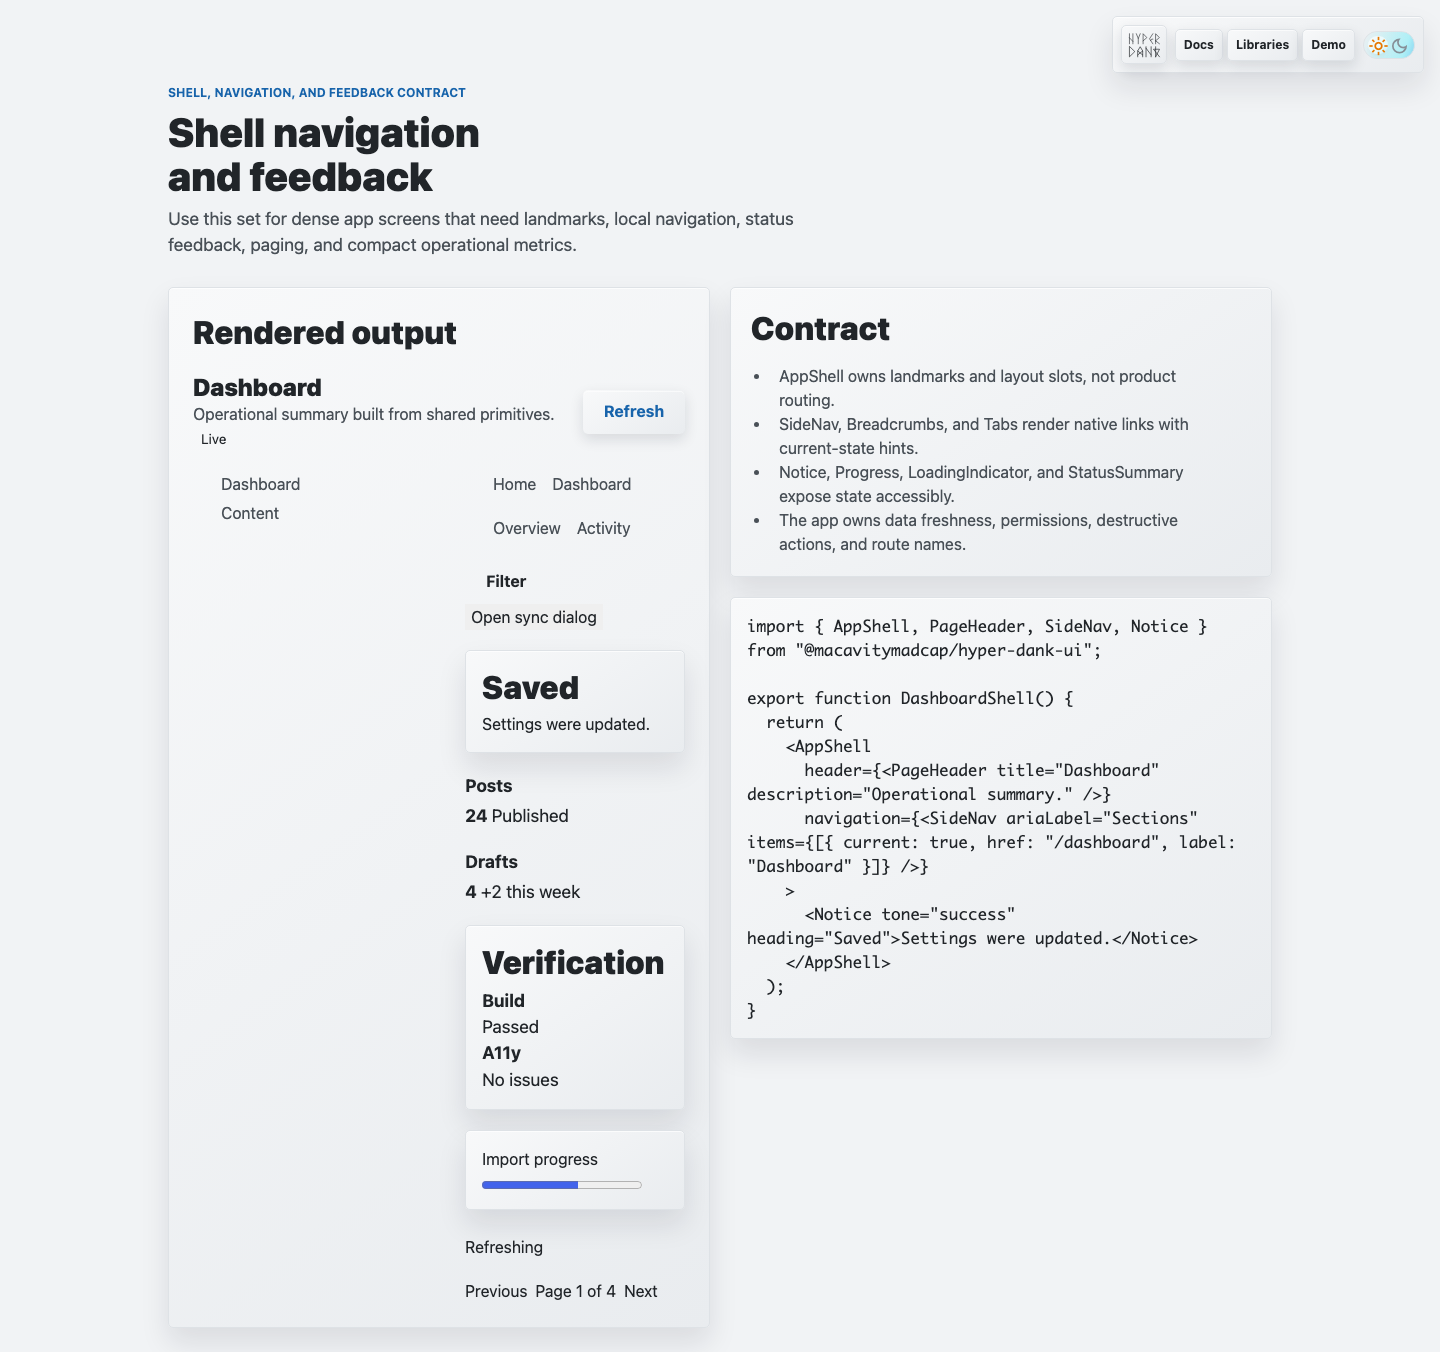
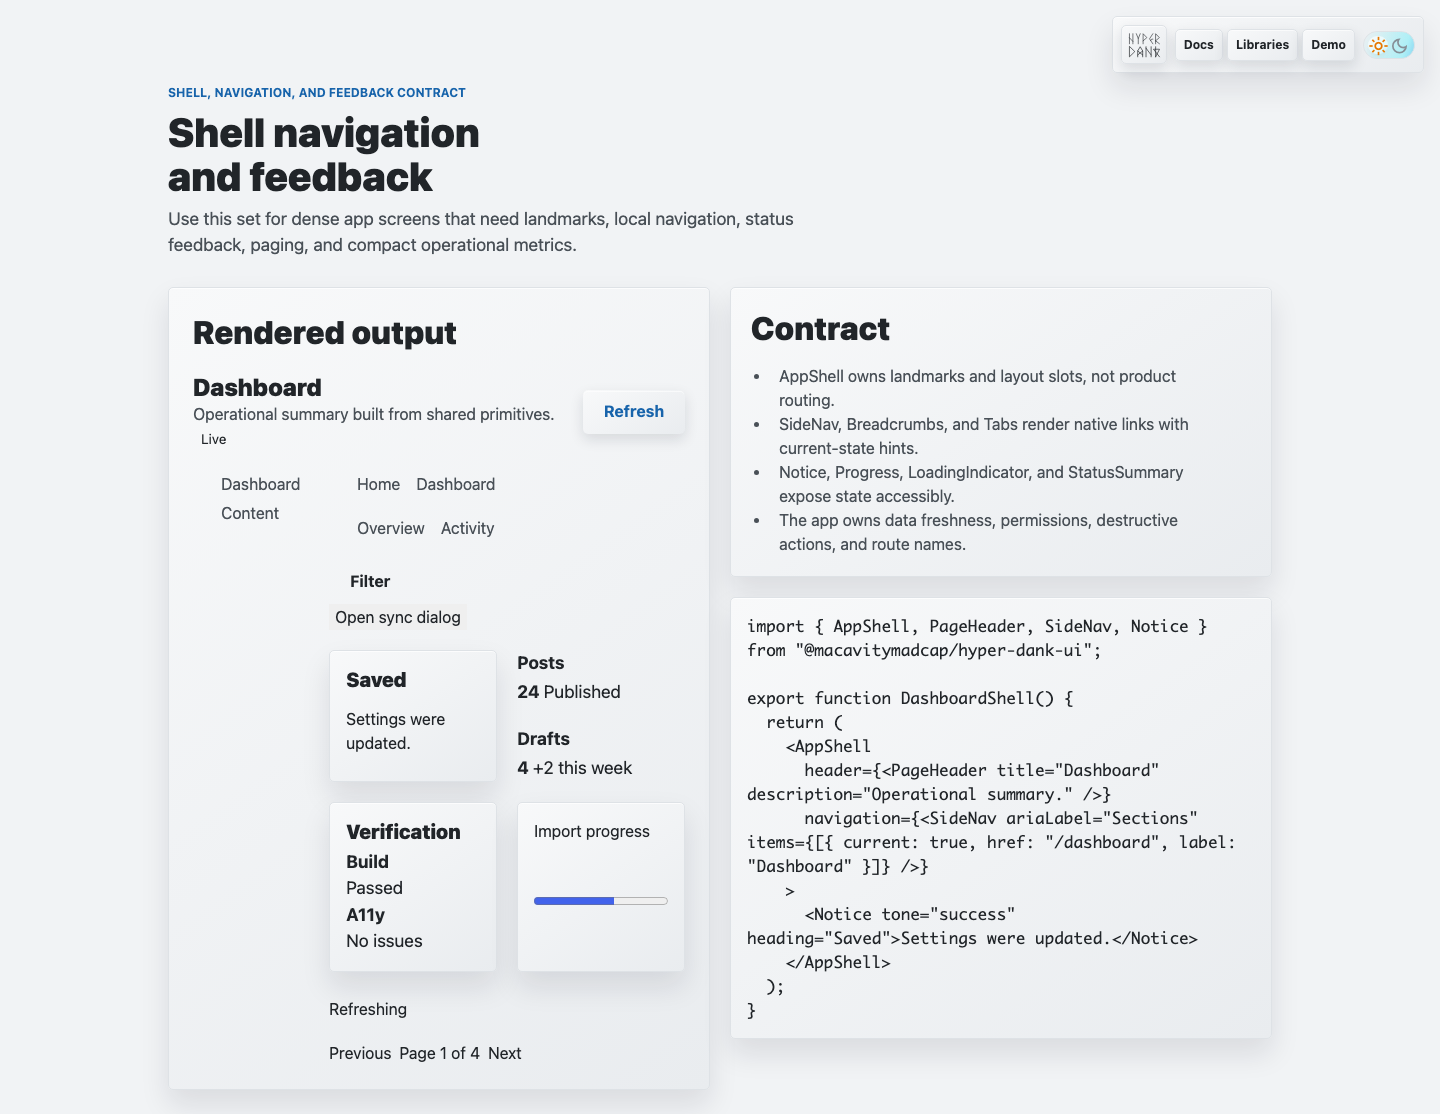
fix(ui): balance Storybook shell preview

diff --git a/.storybook/storybook.css b/.storybook/storybook.css
@@ -437,8 +437,36 @@ body {
   display: grid;
 }
 
+.storybook-demo-shell .app-shell-body {
+  align-items: start;
+  grid-template-columns: minmax(7.5rem, 0.65fr) minmax(0, 2fr);
+}
+
+@media (max-width: 48rem) {
+  .storybook-demo-shell .app-shell-body {
+    grid-template-columns: 1fr;
+  }
+}
+
 .storybook-demo-shell .app-shell-main {
   gap: var(--size-4);
+  grid-template-columns: repeat(auto-fit, minmax(min(100%, 9.5rem), 1fr));
+}
+
+.storybook-demo-shell .breadcrumbs,
+.storybook-demo-shell .pagination,
+.storybook-demo-shell .tabs,
+.storybook-demo-shell .toolbar {
+  grid-column: 1 / -1;
+}
+
+.storybook-demo-shell .storybook-row--roomy {
+  grid-template-columns: repeat(auto-fit, minmax(min(100%, 7rem), 1fr));
+}
+
+.storybook-demo-shell progress {
+  max-width: 100%;
+  width: 100%;
 }
 
 .storybook-doc__section--span-all {
@@ -467,6 +495,12 @@ body {
 
 .storybook-doc__section h2 {
   font-size: clamp(var(--font-size-2), 8cqi, var(--font-size-5));
+}
+
+.storybook-demo-shell .notice h2,
+.storybook-demo-shell .status-summary h2 {
+  font-size: var(--font-size-3);
+  overflow-wrap: anywhere;
 }
 
 .storybook-doc__section p,
